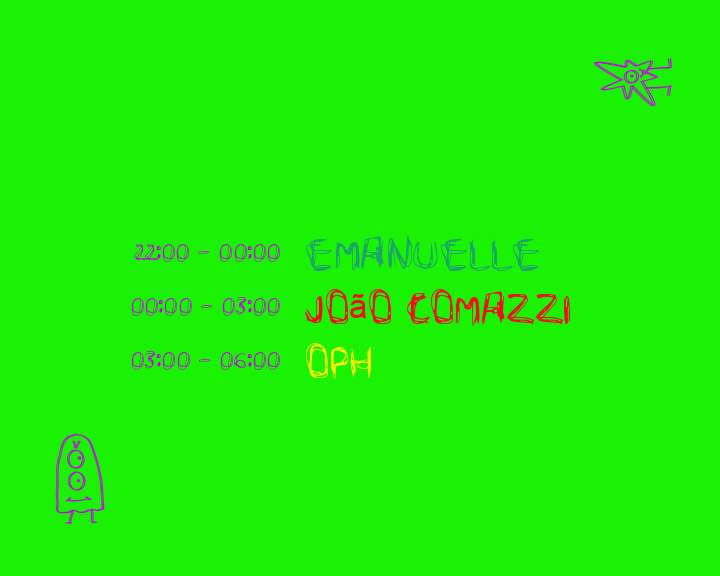
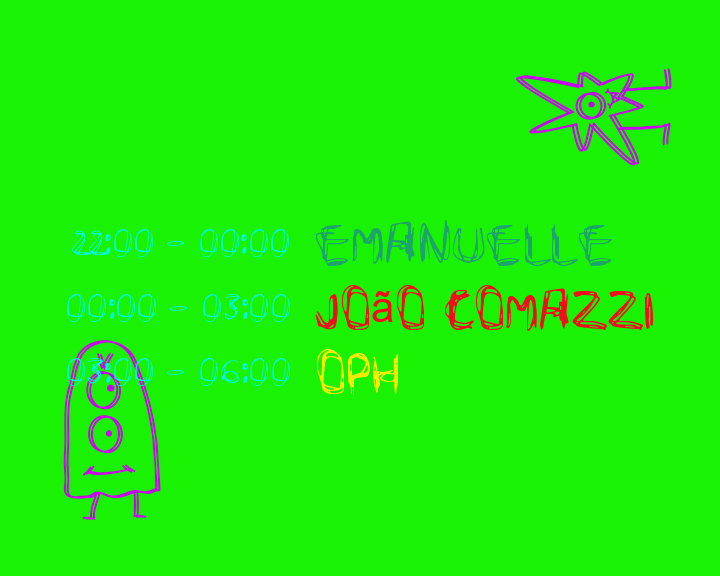
feat: cyan times + bigger overlapping monsters on the CRT frames
Times were purple, same as the monsters, so they vanished where they crossed
them. Recolor times cyan (#02f7de) so they pop on both green and purple, drop
the monster guards, and scale the composite monsters up (mscale 0.4 -> 0.8) so
they fill the corners; text now sits over them in contrasting colors. Remove
cyan from the DJ name cycle so names never clash with the cyan times.

Changed region(s): [[0.0611, 0.5, 0.9167, 0.9062], [0.0917, 0.375, 0.8556, 0.4688], [0.7028, 0.0938, 0.9472, 0.2812]]

diff --git a/mnj-lineup/tools/gen_frames.py b/mnj-lineup/tools/gen_frames.py
@@ -30,17 +30,22 @@ FONT_PATH = os.path.join(ROOT, "assets", "fonts", "ScribbleWire.ttf")
 # layout adapts via the H-relative fractions, so it stays balanced on the tube.
 MODES = {
     "hdmi": dict(W=1280, H=720, out="kiosk_frames", inset=0, mscale=1.0),
-    "composite": dict(W=720, H=576, out="kiosk_frames_pal", inset=48, mscale=0.4),
+    "composite": dict(W=720, H=576, out="kiosk_frames_pal", inset=48, mscale=0.8),
 }
 BG = (25, 242, 2)            # #19f202
 MONSTER = (198, 0, 237)      # #c600ed
+# Times are cyan, not purple: purple times vanished where they crossed the
+# (now larger, overlapping) purple monsters. Cyan pops on both green and purple.
+TIME_COLOR = (2, 247, 222)   # #02f7de
 DJ_COLORS = {
     "blue": (32, 68, 232),       # #2044e8
     "red": (241, 13, 27),        # #f10d1b
     "yellow": (246, 235, 2),     # #f6eb02
     "lightblue": (2, 247, 222),  # #02f7de
 }
-DJ_ORDER = ["blue", "red", "yellow", "lightblue"]
+# lightblue (cyan) is reserved for the time text now, so it's out of the name
+# cycle to avoid name/time color clashes.
+DJ_ORDER = ["blue", "red", "yellow"]
 
 # Dimmed = the "off" half of the neon flicker. Multiply toward bg green.
 def dim(color, f=0.45):
@@ -167,14 +172,12 @@ def render_frame(cfg, m1, m2, day, frame_idx):
     TOP_BIAS = round(TOP_BIAS_FRAC * H)
     min_dj = round(DJ_FRAC * H * 0.54)  # don't shrink below ~54% of nominal
 
-    # The lineup block must clear BOTH monsters: the bottom-left one (LEFT_GUARD)
-    # and the top-right one (RIGHT_GUARD). The block is vertically centered, so
-    # the top rows sit exactly where the top-right monster is — guard that edge
-    # too or the first name draws over it (it did before this guard existed).
+    # Monsters are big and decorative now and may sit BEHIND the text; the names
+    # use colors that pop on purple, so we no longer guard against them. The
+    # lineup just centers in the full width inside the safe inset.
     pad = round(20 / 1280 * W)
-    LEFT_GUARD = inset + m1.width + pad
-    RIGHT_GUARD = inset + m2.width + pad
-    avail_w = W - RIGHT_GUARD - LEFT_GUARD
+    LEFT_GUARD = inset + pad
+    avail_w = W - 2 * (inset + pad)
 
     # Shrink fonts until the widest row fits that available width.
     time_size, dj_size = round(TIME_FRAC * H), round(DJ_FRAC * H)
@@ -220,7 +223,7 @@ def render_frame(cfg, m1, m2, day, frame_idx):
         # time (purple, right-aligned); place on a baseline centered in the row.
         t_base = y + (rh - (tbot - tt)) // 2 - tt
         draw_mixed(draw, (time_right_x - tw, t_base),
-                   t, time_font, time_fb, MONSTER)
+                   t, time_font, time_fb, TIME_COLOR)
         # dj name (cycling color, left-aligned), dimmed if off this frame
         color = DJ_COLORS[DJ_ORDER[i % len(DJ_ORDER)]]
         if i in off:
